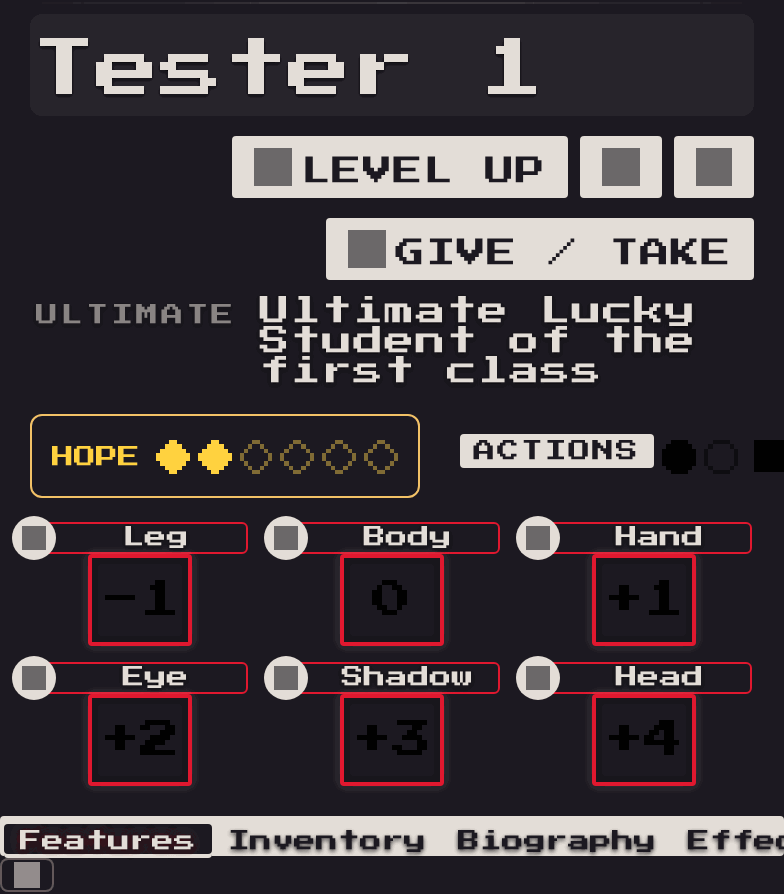
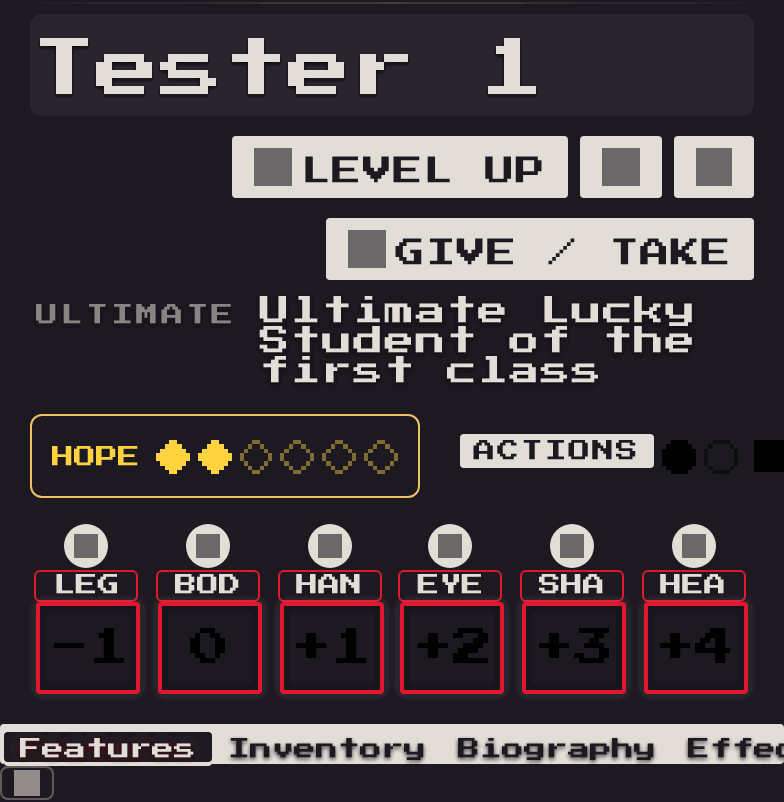
The six statistics take their short names before the row gives up on one line (R7333) [skip ci]
The owner's "koniecznie w 1 rzedzie", through the coordinator (14.11.2026): where even the mark above does not fit, a
sixth step, `short`, draws Daggerheart's short names (DAGGERHEART.CONFIG.Traits.<key>.short: LEG BOD HAN EYE SHA HEA) with
the mark above, the full name kept as the plate's tooltip and aria-label. Three over three only where even those do not
fit: a row under about 322 px at 100 %, 447 at 140 %.

Red first at 6c6b1461: R7333 read `wrap` for Legacy at 667 px and no `shortTraitName`; R7330's step list gains the step.
Chromium, Daggerheart 2.12.8's stylesheet: Legacy 667 px at 100 % 2 rows -> 1 (short names), 934 px at 140 % 2 -> 1;
`wrap` left at 667 px at 140 % in both themes (row 252 px). Shots: docs/dev/traits-115/legacy-667-after.png and
legacy-934-140pct-after.png.

Claude-Session: https://claude.ai/code/session_01Cq9BoTnShXdAUrtrWWDth4

diff --git a/styles/danganronpa.css b/styles/danganronpa.css
@@ -8029,8 +8029,12 @@ body .application.sheet.daggerheart.actor.dh-style.character .character-header-s
    padding 2 px, the gap 2 px). Not the names' size: both themes draw them at their floor already (Legacy 11 px times the
    scale, the glass VT323 at its 21 px `--drpg-sg-floor`). Measured in Chromium, 14.11.2026, "Shadow" with its plate: Legacy
    86 px beside its mark, 84 with the padding cut, about 72 with the mark above; the glass 89, 87, 75 untracked, 59 above.
-   Where even `above` does not fit - Legacy on a row under about 454 px, its 667 px sheet's row is 362 - the row is three
-   over three (`wrap`), as before: nothing overlaps or runs out of the header. `measure` lays each statistic at its
+   Where even `above` does not fit - Legacy on a row under about 454 px, its 667 px sheet's row is 362 - the six take
+   their short names (`short`, the coordinator's step for the owner's one row: LEG BOD HAN EYE SHA HEA drawn from
+   `data-drpg-short`, the full name kept as the plate's tooltip and aria-label), each then as wide as its value's box
+   (52 px times the slider). Only where even those do not fit - a row under about 322 px at 100 % (a Legacy sheet under
+   about 630 px), 447 px at 140 % (a Legacy sheet narrowed by hand under about 860 px) - is the row three over three
+   (`wrap`): nothing overlaps or runs out of the header. `measure` lays each statistic at its
    natural width for the fitter's reading. R5760 reads this cascade, R7330 the order; the drawing is the commit's
    measurement. */
 body .application.sheet.daggerheart.actor.dh-style.character .character-header-sheet .character-traits {
@@ -8074,6 +8078,12 @@ body .application.sheet.daggerheart.actor.dh-style.character .character-header-s
     top: auto;
     bottom: calc(100% + 2px);
     transform: translateX(-50%);
+}
+body .application.sheet.daggerheart.actor.dh-style.character .character-header-sheet .character-traits[data-drpg-trait-fit~="short"] .trait .trait-name > span {
+    display: none;
+}
+body .application.sheet.daggerheart.actor.dh-style.character .character-header-sheet .character-traits[data-drpg-trait-fit~="short"] .trait .trait-name::after {
+    content: attr(data-drpg-short);
 }
 body .application.sheet.daggerheart.actor.dh-style.character .character-header-sheet .character-traits[data-drpg-trait-fit="wrap"] {
     grid-template-columns: repeat(3, minmax(0, 1fr));

diff --git a/docs/dev/R-REGISTRY.md b/docs/dev/R-REGISTRY.md
@@ -3,7 +3,7 @@
 Generated by `node tools/registry.mjs --write` from the tier files; see "Numbering new tests" (.claude/rules/tests.md). `node tools/registry.mjs --next` prints its first line as the tier files give it.
 
 <!-- r-registry:start -->
-Next free: R7333. Reserved and unused: none.
+Next free: R7334. Reserved and unused: none.
 
 | R | Tier | Since | Test |
 | --- | --- | --- | --- |
@@ -1656,8 +1656,9 @@ Next free: R7333. Reserved and unused: none.
 | R7171 | 0 | E56 | the Traces tab's rule says the Key Remnants' rule as config and the handbooks hold it (E59 C-115, CHAINS.md B-M7): `DRPG.Investigation.neverOnePerson` said a Key Remnant narrows the suspects "to at most half the cast, any other to 2-4"; config.mjs `KEY_REMNANTS.suspectRange` and GM 14.4 say the Key Remnants together narrow them to 2-4; the line takes {min} and {max} in both languages, investigation.mjs formats it from `suspectRange`, and neither language speaks of half the cast |
 | R7300 | 1 | E56 | every control the module draws has a tooltip, a hint, or a row that says why it needs none, and "none needed" is no longer a reason (the tooltip sweep, 1.2.115; Q-E57-8, the owner's "Robic teraz" of 14.11.2026): tools/tooltip-census.json, the baseline `node tools/check.mjs tooltips` holds every site with no tooltip and no hint line to, keeps only rows of six reasons - "label is enough: ..." (the label and its options say it all), "hint: ..." and "help in code: ..." (help the census cannot see near the control, each with a held { fn, pattern } found in that function of its file), "not met: ..." (no reader meets it as a control), "conditional: ..." (a tooltip drawn under a named condition), or a stage's commit that gives one; E102's "none needed" rows, an agent's judgement the owner never saw, are each a tooltip now or one of those |
 | R7330 | 1 | E56 | the six statistics' row gives way in the owner's order and stops at the first step that fits (sheet-header.mjs `traitFitStep`; the owner, 14.11.2026, "koniecznie w 1 rzedzie"): the gap, then the plate's padding, then the names' letter-spacing, then the mark above the name; three columns only where none of them fits. Fed the widths Chromium measured on Daggerheart 2.12.8's stylesheet with the module's sheets (14.11.2026): Legacy at 850 px moves the mark above, Legacy at 667 px fits nothing, the glass at 850 px stops at the letter-spacing and at 667 px at the mark above, and every sheet wider than six full-width names keeps its row as drawn |
-| R7331 | 1 | E56 | the Interface scale reaches down to 25 % (the owner, 14.11.2026: "Chcialbym powiekszyc tez zakres zmniejszenia ui (aktualnie minimum to 0.8, celujmy w 0.25"): settings.mjs states the range once (`UI_SCALE`: 0.25 to 1.4 by 0.05), the setting is registered with it, and `clampSlider` holds a stored value to it - 0.25 and 1.4 kept, below and above them clamped, a value that is no number read as 1; the setting's hint names 25% and 140% in both languages, and the window's line says below 80% the text is smaller than the module's readable size |
+| R7331 | 1 | E56 | the Interface scale reaches down to 25 % (the owner, 14.11.2026: "Chcialbym powiekszyc tez zakres zmniejszenia ui (aktualnie minimum to 0.8, celujmy w 0.25"): settings.mjs states the range once (`UI_SCALE`: 0.25 to 1.4 by 0.05), the setting is registered with it, and `clampSlider` holds a stored value to it - 0.25 and 1.4 kept, below and above them clamped, a value that is no number read as 1; the setting's hint names 25% and 140% in both languages, and the window's line under the slider (`DRPG.SettingsWindow.scaleSmall`, the hint itself stays one line, R4061) says below 80% the text is smaller than the module's readable size |
 | R7332 | 1 | E56 | under 80 % the readability floor follows the Interface scale down in proportion, and from 80 % up it holds (the owner's 25 %, 14.11.2026; R60 keeps the 11 px from 80 % up): settings.mjs `floorScaleOf` is the slider over 0.8 under it and 1 from it, `applyTheme` stamps it as `--drpg-floor-scale` on the document and the body, and every 11 px floor the module's served sheets write reads it - no bare `max(11px` or `min(11px` is left; under the glass the floor (`--drpg-sg-floor`) already rides on the type scale, which carries the slider |
+| R7333 | 1 | E56 | where even the mark above does not fit, the six take their short names before the row gives up on one line (the owner's "koniecznie w 1 rzedzie", 14.11.2026, through the coordinator: the short names already in lang - LEG BOD HAN EYE SHA HEA - with the mark above, the full name as the plate's tooltip and its aria-label): sheet-header.mjs `TRAIT_FIT_STEPS` ends on `above track short`, `traitFitStep` takes it where it fits and gives `wrap` only where even it does not, and `shortTraitName` reads a statistic's short name off Daggerheart's key `DAGGERHEART.CONFIG.Traits.<key>.short` |
 
 Tier-1 tests older than 1.2.61 with no number (70, names kept):
 

diff --git a/docs/dev/traits-115/README.md b/docs/dev/traits-115/README.md
@@ -24,14 +24,17 @@ The step each sheet takes, 100 % (the row's width in brackets):
 
 | sheet | Legacy | Stained Glass |
 | --- | --- | --- |
-| 667 px (362) | three over three: six above need 454 | mark above, one row |
+| 667 px (362) | short names (LEG BOD HAN EYE SHA HEA), mark above, one row | mark above, one row |
 | 850 px (545) | mark above, one row | gap, padding, letter-spacing; one row |
 | 1120 px (815) | as drawn, one row | as drawn, one row |
 | 1300 px | as drawn, one row | as drawn, one row |
 
-At 140 % (a sheet opens 1.4 times as wide: Legacy 1190, the glass 1568): one row as drawn in both themes. A sheet a
-Legacy player narrows by hand under about 760 px (100 %) or 1030 px (140 %) stands three over three; under the glass the
-same at 140 % on a 667 px sheet. In every case measured no mark stands on its neighbour's plate and nothing runs out of
+The step before three over three is the short names (the coordinator's, for the owner's "koniecznie w 1 rzedzie"): a
+statistic is then as wide as its value's box, 52 px times the slider, and the full name stays the plate's tooltip and
+aria-label. At 140 % (a sheet opens 1.4 times as wide: Legacy 1190, the glass 1568): one row in both themes; Legacy
+narrowed by hand to 934 px takes the short names (legacy-934-140pct-after.png). Three over three is left only for a row
+under about 322 px at 100 % (a Legacy sheet under about 630 px) and 447 px at 140 % (a 667 px sheet at 140 %, both
+themes). In every case measured no mark stands on its neighbour's plate and nothing runs out of
 the header.
 
 ## Not measured here
